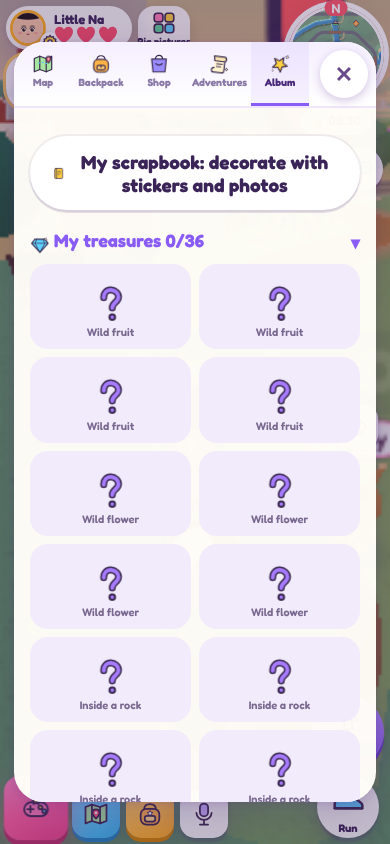
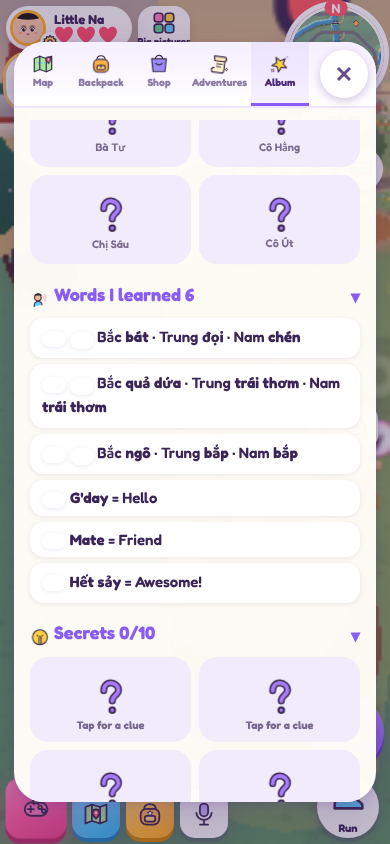
r79 A3: Album words, one row each with its picture, words and a 44 px hear-again button; no empty circles
The emoji drawings inside the row took the old row style (white pill) and showed as empty circles; the picture fell
below the row. New check r79albumwords (phone, computer). Pictures in evidence/r79-a3. New spoken lines listed in
docs/owner-repair-20261014/r79-new-lines.md.

Claude-Session: https://claude.ai/code/session_01SchVRv9GNVGszhptzXpYMs

diff --git a/js/ui.js b/js/ui.js
@@ -972,7 +972,13 @@ export function openPad(game, i, tab) {
       <p class="note">${T('Pick fruit and flowers in the meadows and bamboo forest. Tap a rock 3 times to crack it open, or dig 3 times at a sparkly mound of earth: the rarest gems are worth the most! Sell treasures from your bag or to Mr. Bear at the farm.', 'Hái quả và hoa ở đồng cỏ và rừng tre. Gõ hòn đá 3 lần để mở nó ra, hoặc đào 3 lần ở ụ đất lấp lánh: đá quý càng hiếm càng đáng giá! Bán báu vật ngay trong túi hoặc cho Bác Gấu ở nông trại.')}</p>`;
     body.innerHTML = `<button class="btn wide big" id="scrapBtn">📒 ${T('My scrapbook: decorate with stickers and photos', 'Sổ dán hình: trang trí bằng hình dán và ảnh')}</button>` + treasures + placeBookHTML(p) + familyCardsHTML(p) + `<h3>📮 ${T('Postcards', 'Bưu thiếp')} ${Object.keys(pcs).length}/${LANDMARKS.length}</h3><div class="secrets">${LANDMARKS.map(l => pcs[l.id] ? `<button class="sec on" data-pcfact="${l.id}"><span>${l.icon}</span><small>${esc(l.name())}</small></button>` : `<button class="sec" data-fly="${l.id}"><span>❔</span><small>✈ ${esc(l.name())}</small></button>`).join('')}</div>
       <h3>🍜 ${T('Food passport', 'Hộ chiếu ẩm thực')} ${Object.keys(tasted).length}/${VENDORS.length}</h3><div class="secrets">${VENDORS.map(v => `<div class="sec ${tasted[v.id] ? 'on' : ''}"><span>${tasted[v.id] ? v.food[0] : '❔'}</span><small>${tasted[v.id] ? esc(T(v.food[1], v.food[2])) : esc(v.name)}</small></div>`).join('')}</div>
-      <h3>🗣 ${T('Words I learned', 'Từ con đã học')} ${words.length}</h3><div class="wordlist">${words.map(k => { const [kind, w] = [k.slice(0, 2), k.slice(3)]; if (kind === 'au') { const s = AUSSIE_SLANG.find(x => x[0] === w); return s ? `<span>🇦🇺 <b>${esc(s[0])}</b> = ${esc(T(s[1], s[2]))}</span>` : ''; } if (kind === 'vs') { const s = VN_SLANG.find(x => x[0] === w); return s ? `<span>🇻🇳 <b>${esc(s[0])}</b> = ${esc(T(s[1], s[2]))}</span>` : ''; } const v = VN_WORDS.find(x => x[1] === w); return v ? `<span>🇻🇳 ${v[0]} Bắc <b>${esc(v[2])}</b> · Trung <b>${esc(v[3])}</b> · Nam <b>${esc(v[4])}</b></span>` : ''; }).join('') || `<p class="note">${T('Ask the market sellers and the Aussie shopkeepers to teach you a word!', 'Hỏi các cô chú bán hàng ở chợ và ở Góc Nước Úc để học từ mới nhé!')}</p>`}</div>
+      <h3>🗣 ${T('Words I learned', 'Từ con đã học')} ${words.length}</h3><div class="wordlist">${words.map(k => { const [kind, w] = [k.slice(0, 2), k.slice(3)];
+        // (r79 A3, owner 16 Oct: pictures fell below and across the rows, empty circles on the left) one row each: the
+        // word's picture, its words, and a button to hear it again, all inside the row and lined up
+        const row = (icon, flag, words, say) => `<div class="wl-row"><span class="wl-pic">${icon}</span><span class="wl-txt"><i class="wl-flag">${flag}</i> ${words}</span><button class="wl-say" data-wsay="${esc(JSON.stringify(say))}" aria-label="${T('Hear it', 'Nghe lại')}">🔊</button></div>`;
+        if (kind === 'au') { const s = AUSSIE_SLANG.find(x => x[0] === w); return s ? row(s[3], '🇦🇺', `<b>${esc(s[0])}</b> = ${esc(T(s[1], s[2]))}`, [`${s[0]} means ${s[1]}`, `${s[0]} nghĩa là ${s[2]}`]) : ''; }
+        if (kind === 'vs') { const s = VN_SLANG.find(x => x[0] === w); return s ? row(s[3], '🇻🇳', `<b>${esc(s[0])}</b> = ${esc(T(s[1], s[2]))}`, [`${s[0]} means ${s[1]}`, `${s[0]}: ${s[2]}`]) : ''; }
+        const v = VN_WORDS.find(x => x[1] === w); return v ? row(v[0], '🇻🇳', `Bắc <b>${esc(v[2])}</b> · Trung <b>${esc(v[3])}</b> · Nam <b>${esc(v[4])}</b>`, [`${v[1]}: in the north ${v[2]}, in the middle ${v[3]}, in the south ${v[4]}`, `Miền Bắc nói ${v[2]}, miền Trung nói ${v[3]}, miền Nam nói ${v[4]}`]) : ''; }).join('') || `<p class="note">${T('Ask the market sellers and the Aussie shopkeepers to teach you a word!', 'Hỏi các cô chú bán hàng ở chợ và ở Góc Nước Úc để học từ mới nhé!')}</p>`}</div>
       <h3>🤫 ${T('Secrets', 'Bí mật')} ${Object.keys(sec).length}/${SECRETS.length}</h3><div class="secrets">${SECRETS.map(s => sec[s.id] ? `<div class="sec on"><span>${s.icon}</span><small>${esc(s.name())}</small></div>` : `<button class="sec" data-hint="${esc(s.hint())}"><span>❔</span><small>${T('Tap for a clue', 'Chạm để nghe gợi ý')}</small></button>`).join('')}</div>
       <h3>📖 ${T('Storybook', 'Sách truyện')}</h3><div class="stories">${storyList(p).map((st, k) => `<button class="qbtn" data-st="${k}"><span>📖</span><small>${esc(st.title())}</small></button>`).join('')}</div>
       <h3>${T('Stickers', 'Hình dán')} ${p.stickers.length}/${STICKERS.length}</h3><div class="stickers">${STICKERS.map(s => `<div class="${p.stickers.includes(s) ? '' : 'miss'}">${p.stickers.includes(s) ? s : '?'}</div>`).join('')}</div>
@@ -981,6 +987,7 @@ export function openPad(game, i, tab) {
     bindPlaceBook(body, toast); bindFamilyCards(body, toast);
     body.querySelector('#scrapBtn').onclick = () => { m.close(); game.closePad(i); setTimeout(() => game.openScrapbook(hero), 220); };
     body.querySelectorAll('[data-st]').forEach(b => b.onclick = () => showStory(storyList(p)[+b.dataset.st], p.name));
+    body.querySelectorAll('[data-wsay]').forEach(b => b.onclick = () => { SFX.tap(); const [en, vi] = JSON.parse(b.dataset.wsay); say(en, vi); });
     body.querySelectorAll('[data-fly]').forEach(b => b.onclick = () => { const l = LANDMARKS.find(x => x.id === b.dataset.fly); close(); game.travel(hero, l.x, l.z + (l.id === 'uluru' ? -4 : 3)); });
     body.querySelectorAll('[data-pcfact]').forEach(b => b.onclick = () => { const l = LANDMARKS.find(x => x.id === b.dataset.pcfact); say(l.fact[0], l.fact[1]); toast(T(l.fact[0], l.fact[1])); });
     body.querySelectorAll('[data-dl]').forEach(b => b.onclick = () => savePhoto(p.album[+b.dataset.dl]));

diff --git a/css/style.css b/css/style.css
@@ -2745,3 +2745,15 @@ body.bigtext .theatre .th-text { --thp: clamp(20px, 3.2vw, 28px); --thm: clamp(1
    panel and game (they start at layer 25) and fades while one is open, so it never covers their words or buttons */
 .packbar { z-index: 24; }
 body:has(.modal:not(.out), .gl, .wardrobe, .audio-tray, .dialog:not(.out), .storybook, .howto) .packbar { opacity: 0; }
+/* (r79 A3) Album "Words I learned": one tidy row per word, the picture, the words and the hear-again button inside it */
+.wordlist .wl-row { display: flex; align-items: center; gap: 10px; min-height: 56px; padding: 6px 6px 6px 10px; background: #fff; border-radius: 14px; box-shadow: 0 1px 4px rgba(80,40,140,.1); font-size: 15px; }
+.wordlist .wl-pic { flex: none; width: 40px; height: 40px; display: flex; align-items: center; justify-content: center; background: none; box-shadow: none; padding: 0; }
+.wordlist .wl-pic svg, .wordlist .wl-pic .art { width: 36px; height: 36px; }
+.wordlist .wl-txt { flex: 1 1 auto; min-width: 0; line-height: 1.3; background: none; box-shadow: none; padding: 0; }
+.wordlist .wl-flag { font-style: normal; display: inline-flex; vertical-align: -3px; }
+.wordlist .wl-flag svg, .wordlist .wl-flag .art { width: 20px; height: 20px; }
+.wordlist .wl-say { flex: none; width: 44px; height: 44px; border: 2px solid #e9def5; border-radius: 50%; background: #fff; display: flex; align-items: center; justify-content: center; padding: 0; }
+.wordlist .wl-say svg, .wordlist .wl-say .art { width: 24px; height: 24px; }
+.wordlist .wl-row span { background: none; border-radius: 0; padding: 0; box-shadow: none; font-size: inherit; }
+.wordlist .wl-pic .arti, .wordlist .wl-say .arti { display: flex; align-items: center; justify-content: center; width: 100%; height: 100%; }
+.wordlist .wl-flag .flagi { display: inline-flex; } .wordlist .wl-flag .flag { width: 22px; height: 15px; }

diff --git a/docs/owner-repair-20261014/r79-new-lines.md b/docs/owner-repair-20261014/r79-new-lines.md
@@ -1,0 +1,8 @@
+# r79 new spoken lines (chat 1)
+
+For Release to record (this chat has no voice key). Until recorded, the device voice reads them.
+
+| Where | English | Vietnamese |
+|---|---|---|
+| Album, Words I learned, hear-again button (Aussie and Vietnamese slang) | "<word> means <meaning>" (one line per word in `js/words.js` AUSSIE_SLANG and VN_SLANG) | "<word> nghĩa là <meaning>" (AUSSIE_SLANG); "<word>: <meaning>" (VN_SLANG) |
+| Album, Words I learned, hear-again button (regional words, `js/words.js` VN_WORDS) | "<word>: in the north <Bắc>, in the middle <Trung>, in the south <Nam>" | "Miền Bắc nói <Bắc>, miền Trung nói <Trung>, miền Nam nói <Nam>" |
